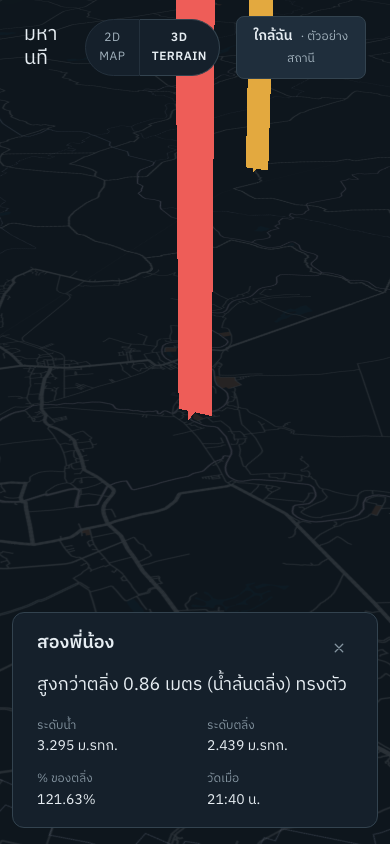
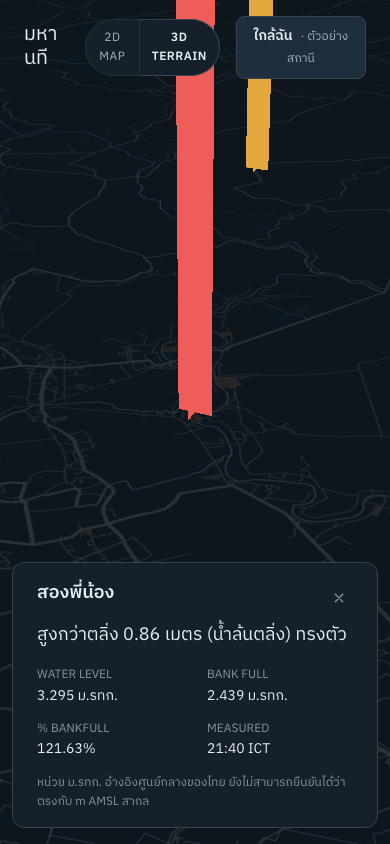
feat(web): the copy rule - English instrument, Thai voice (Phase 4 P1)
The rule, written down in DESIGN.md and the design brief: Thai is the
voice (the sentence, situation labels, anything read as speech);
English is the instrument (measurement labels, units, timestamps,
view labels, credits). Applied: the station sheet's labels become
WATER LEVEL / BANK FULL / % BANKFULL / MEASURED, timestamps render
18:40 ICT (was Thai น.), and the datum caveat joins the sheet as a
Thai note - a caveat the reader must understand is voice, and
ม.รทก.'s equality with m AMSL is not provable from the published
data, so the unit stays the datum's own name rather than claiming
the equivalence.

The subsets cover the new Latin strings (Basic Latin U+0020-007E is
in the subset charset; the view labels already render from it). Gate
screenshots re-shot for the changed sheet. tsc/eslint clean, unit
35/35, gate spec 4/4.

Changed region(s): [[0.0923, 0.7393, 0.8923, 0.955], [0.0923, 0.6777, 0.3077, 0.7085], [0.4308, 0.9242, 0.4615, 0.955]]

diff --git a/web/src/routes/Lookdev.tsx b/web/src/routes/Lookdev.tsx
@@ -79,13 +79,13 @@ function initialView(): ViewMode {
 
 function formatTime(iso: string): string {
   const d = new Date(iso);
-  return (
-    d.toLocaleTimeString('th-TH', {
-      hour: '2-digit',
-      minute: '2-digit',
-      timeZone: 'Asia/Bangkok',
-    }) + ' น.'
-  );
+  // Timestamps are instrument (the copy rule): English, Bangkok time.
+  return `${d.toLocaleTimeString('en-GB', {
+    hour: '2-digit',
+    minute: '2-digit',
+    hour12: false,
+    timeZone: 'Asia/Bangkok',
+  })} ICT`;
 }
 
 export function Lookdev() {
@@ -353,22 +353,27 @@ export function Lookdev() {
           <p className="lookdev__sentence lookdev__sentence--station">{selected.sentence}</p>
           <dl className="lookdev__numbers lookdev__numbers--station">
             <div>
-              <dt>ระดับน้ำ</dt>
+              <dt>WATER LEVEL</dt>
               <dd>{selected.wl !== null ? `${selected.wl.toFixed(3)} ม.รทก.` : '·'}</dd>
             </div>
             <div>
-              <dt>ระดับตลิ่ง</dt>
+              <dt>BANK FULL</dt>
               <dd>{selected.bankFull !== null ? `${selected.bankFull.toFixed(3)} ม.รทก.` : '·'}</dd>
             </div>
             <div>
-              <dt>% ของตลิ่ง</dt>
+              <dt>% BANKFULL</dt>
               <dd>{selected.pct !== null ? `${selected.pct.toFixed(2)}%` : '·'}</dd>
             </div>
             <div>
-              <dt>วัดเมื่อ</dt>
+              <dt>MEASURED</dt>
               <dd>{selected.measuredAt ? formatTime(selected.measuredAt) : '·'}</dd>
             </div>
           </dl>
+          {/* The datum note stays Thai (it is voice, a caveat the reader
+              must understand, not a measurement label): ม.รทก. is the
+              Thai reference datum and its equality with m AMSL is not
+              provable from the published data (brief 02). */}
+          <p className="lookdev__datum">หน่วย ม.รทก. อ้างอิงศูนย์กลางของไทย ยังไม่สามารถยืนยันได้ว่าตรงกับ m AMSL สากล</p>
         </section>
       )}
 

diff --git a/web/src/routes/lookdev.css b/web/src/routes/lookdev.css
@@ -328,6 +328,14 @@
   color: var(--color-text-faint);
 }
 
+/* The station sheet's datum caveat: Thai (it is voice - a caveat the
+   reader must understand, not a measurement label). */
+.lookdev__datum {
+  margin-top: var(--space-3);
+  font-size: var(--type-caption-size);
+  color: var(--color-text-faint);
+}
+
 /* The selected station: a bottom sheet on phones. The brief allows one
    functional blur and the panel over the relief owns it; the sheet is
    a solid token surface - opaque, so no terrain bleeds through

diff --git a/web/DESIGN.md b/web/DESIGN.md
@@ -208,7 +208,9 @@ Every situation colour passes WCAG AA as small text on ground, panel and elevate
 
 **The Thai Stays in the DOM Rule.** Thai text never enters WebGL; labels over the relief are DOM elements projected from 3D positions (drei `Html`), so stacked tone marks and vowels are shaped by the browser.
 
-Fonts are self-hosted WOFF2 subsets (Thai + Latin), `font-display: swap`, ≈64 KB total; subsets renamed "Mahanathi Sans" per the OFL's Reserved Font Name condition. New strings need a subset rebuild (`scripts/research/promote_fonts.py`).
+**The Instrument/Voice Rule (Phase 4).** Thai is the voice — the sentence, the situation labels, the buttons a user reads as speech. English is the instrument — measurement labels (`WATER LEVEL`, `BANK FULL`, `% BANKFULL`, `MEASURED`), view labels (`2D MAP`, `3D TERRAIN`), units, timestamps (ICT), credits. A caveat the reader must *understand* (the ม.รทก. datum note) is voice and stays Thai even inside an instrument block.
+
+Fonts are self-hosted WOFF2 subsets (Thai + Latin), `font-display: swap`; subsets renamed "Mahanathi Sans" per the OFL's Reserved Font Name condition. New strings need a subset rebuild (`scripts/research/promote_fonts.py`).
 
 ## Layout
 

diff --git a/docs/brief/01-DESIGN-DIRECTION.md b/docs/brief/01-DESIGN-DIRECTION.md
@@ -91,6 +91,7 @@ Do **not** look at "3D globe hero" templates, Dribbble dashboards or SaaS landin
 - **Timing:** exponential ease-out, 160–260 ms for UI and 1.2–2.0 s for camera moves.
 
 ## 8. Copy (Thai), a calm knowledgeable friend
+- **Thai is the voice, English is the instrument (Phase 4 rule).** Thai carries the sentence, the situation labels and anything the user reads as speech; English carries the measurement labels, units, timestamps, view labels and credits. A caveat the reader must understand (the ม.รทก. datum note) is voice and stays Thai.
 - Be plain and factual. Always state the measured time and the source.
 - **Never** say ปลอดภัย, จะท่วม, ไม่ท่วม or anything that predicts or reassures. The humanize package enforces this with a banned-phrase test.
 - No marketing words: ปฏิวัติ, ยกระดับ, ล้ำสมัย, ครบจบในที่เดียว.
